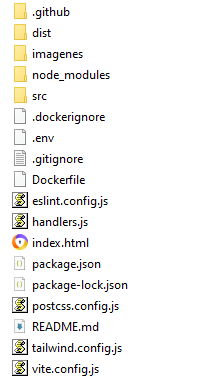
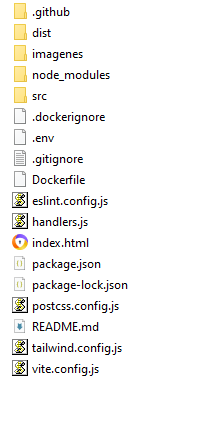
Commit para Github actions Archivo pruebas.md

Changed region(s): [[0.0299, 0.0, 0.6567, 0.9897]]

diff --git a/Pruebas integracion.md b/Pruebas integracion.md
@@ -1,0 +1,28 @@
+# ASISYA · Frontend
+
+Se realiza un pipeline para pruebas integradas donde se evalua Lint (ESLint) y los test que prueban el componente login formulario si los campos están vacíos y LoginPage: muestra el error del backend con credenciales inválidas.
+
+## Proceso Github Actions
+
+
+Carpetas del proyecto
+
+
+![Logotipo del proyecto](imagenes/pipeline1.png)
+
+Pruebas Lint (exitosas)
+
+![Logotipo del proyecto](imagenes/pipeline2.png)
+
+Pruebas Test - Vitest (exitosas)
+
+Aquí se realizan las pruebas de integración entre el componente de login y el API del backend
+
+![Logotipo del proyecto](imagenes/pipeline3.png)
+
+Buld (exitoso)
+
+![Logotipo del proyecto](imagenes/pipeline4.png)
+
+
+
